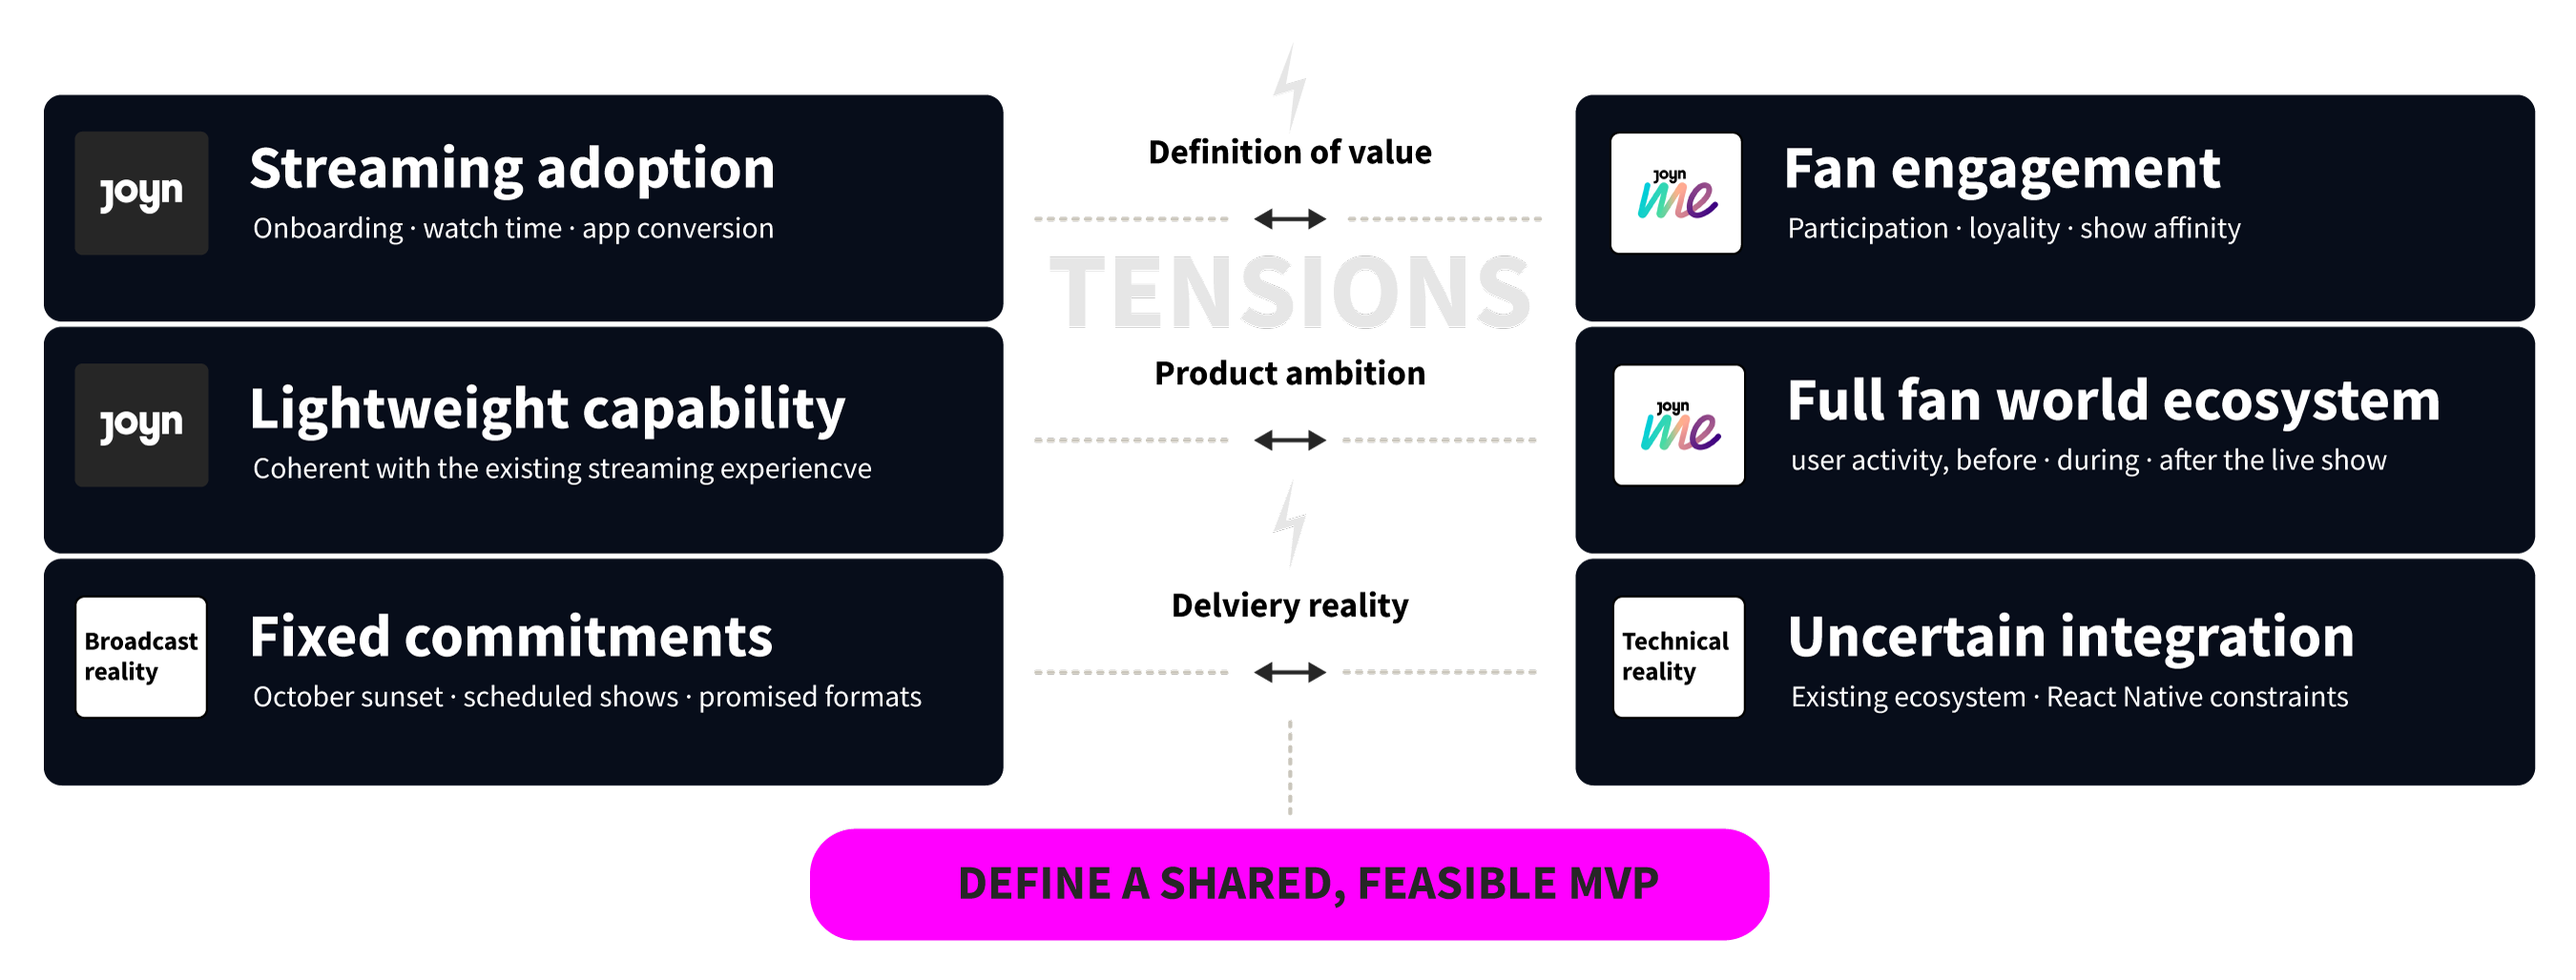
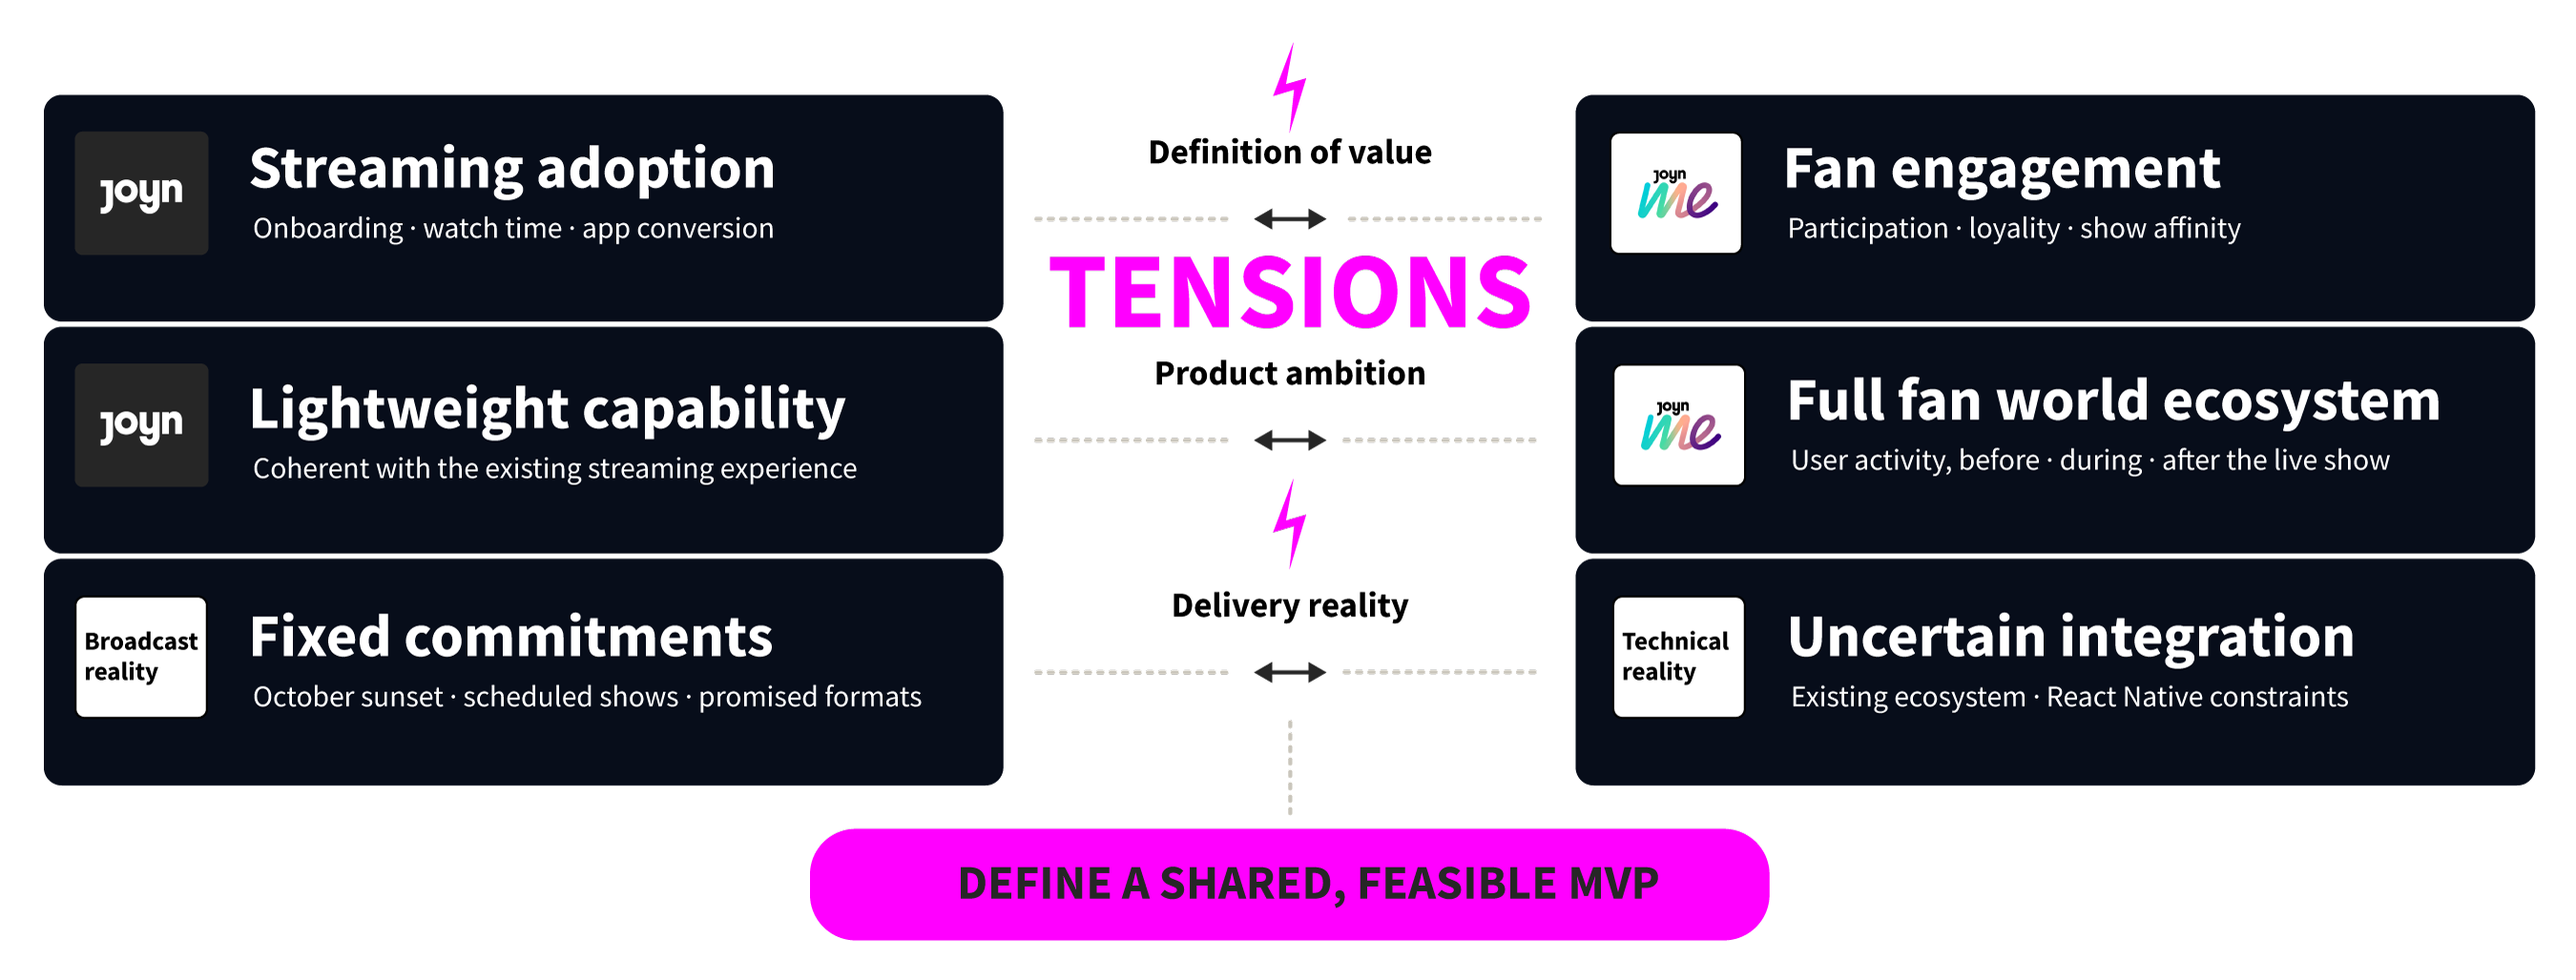
2nd big review and improvements update
Case studies facts and figures aligned with Executive Brief. Many copy updates and final typos removed from images. Removed a few bugs from claude

diff --git a/src/styles/global.css b/src/styles/global.css
@@ -10,8 +10,11 @@
   --content: var(--layout-container-content);/* 1120 */
   --wide: var(--layout-container-wide);      /* 1344 */
   --section-pad: var(--space-24);
+  /* left/right edge of the 1120px content area, for full-bleed blocks that are not on the section grid */
+  /* = where the section grid's content column starts (see .section) — % is the full-bleed element's width */
+  --content-edge: max(calc(var(--margin) + (var(--wide) - var(--content)) / 2), calc((100% - var(--content)) / 2));
 }
-@media (max-width: 1023px) { :root { --margin: var(--space-8); --section-pad: var(--space-16); } }
+@media (max-width: 1023px) { :root { --margin: var(--space-8); --section-pad: var(--space-16); --content-edge: var(--margin); } }
 @media (max-width: 743px)  { :root { --margin: var(--space-4); --section-pad: var(--space-12); } }
 
 *, *::before, *::after { box-sizing: border-box; }
